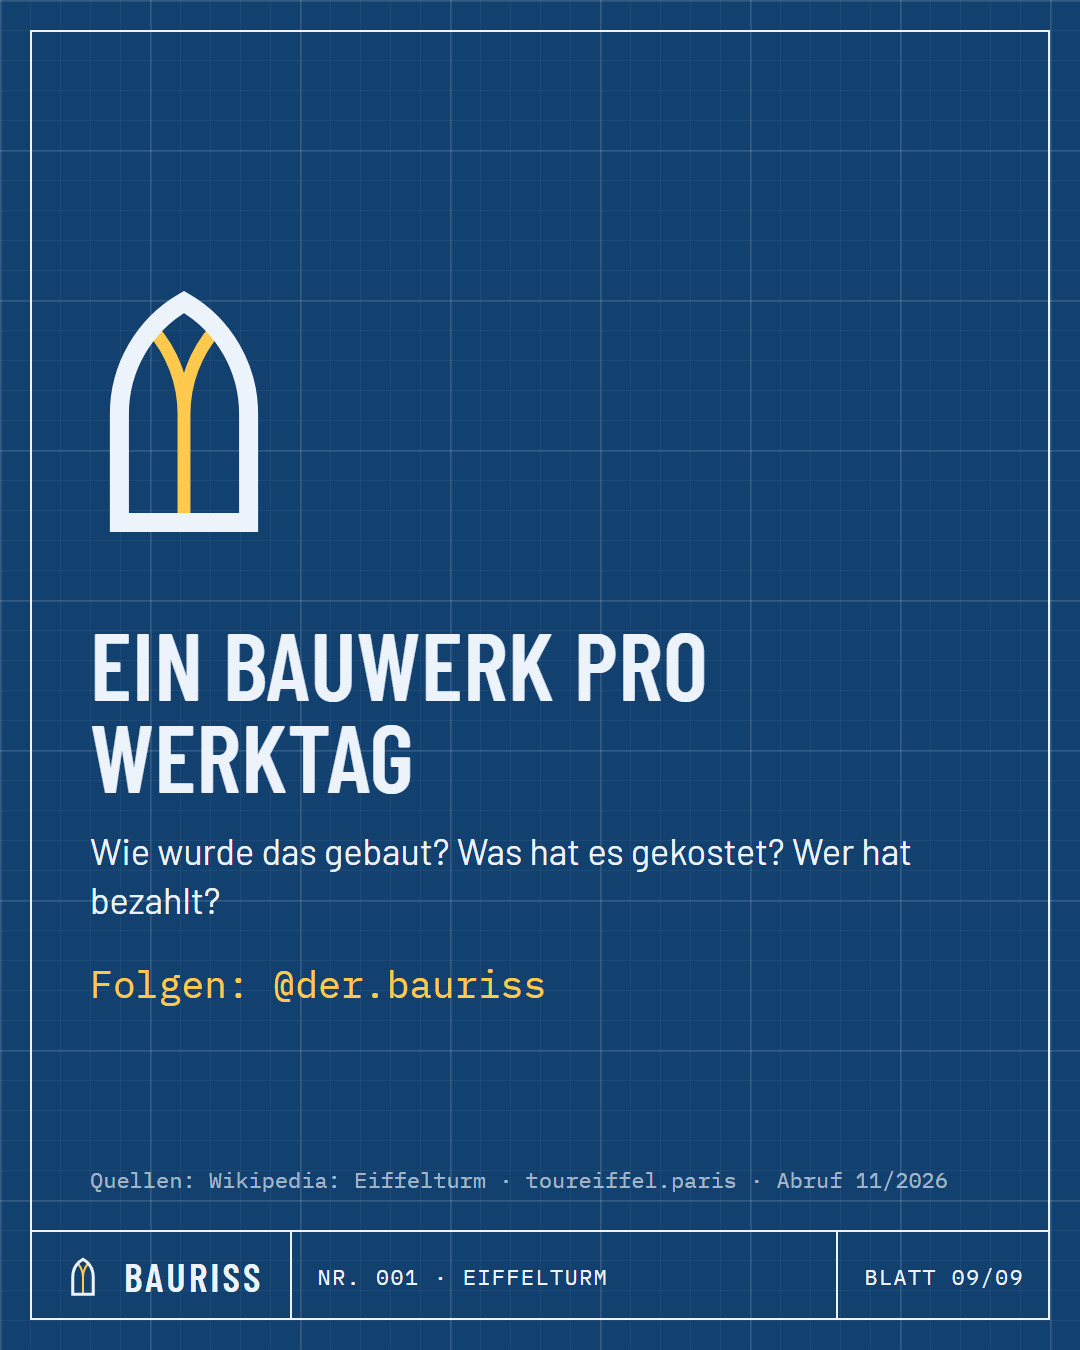
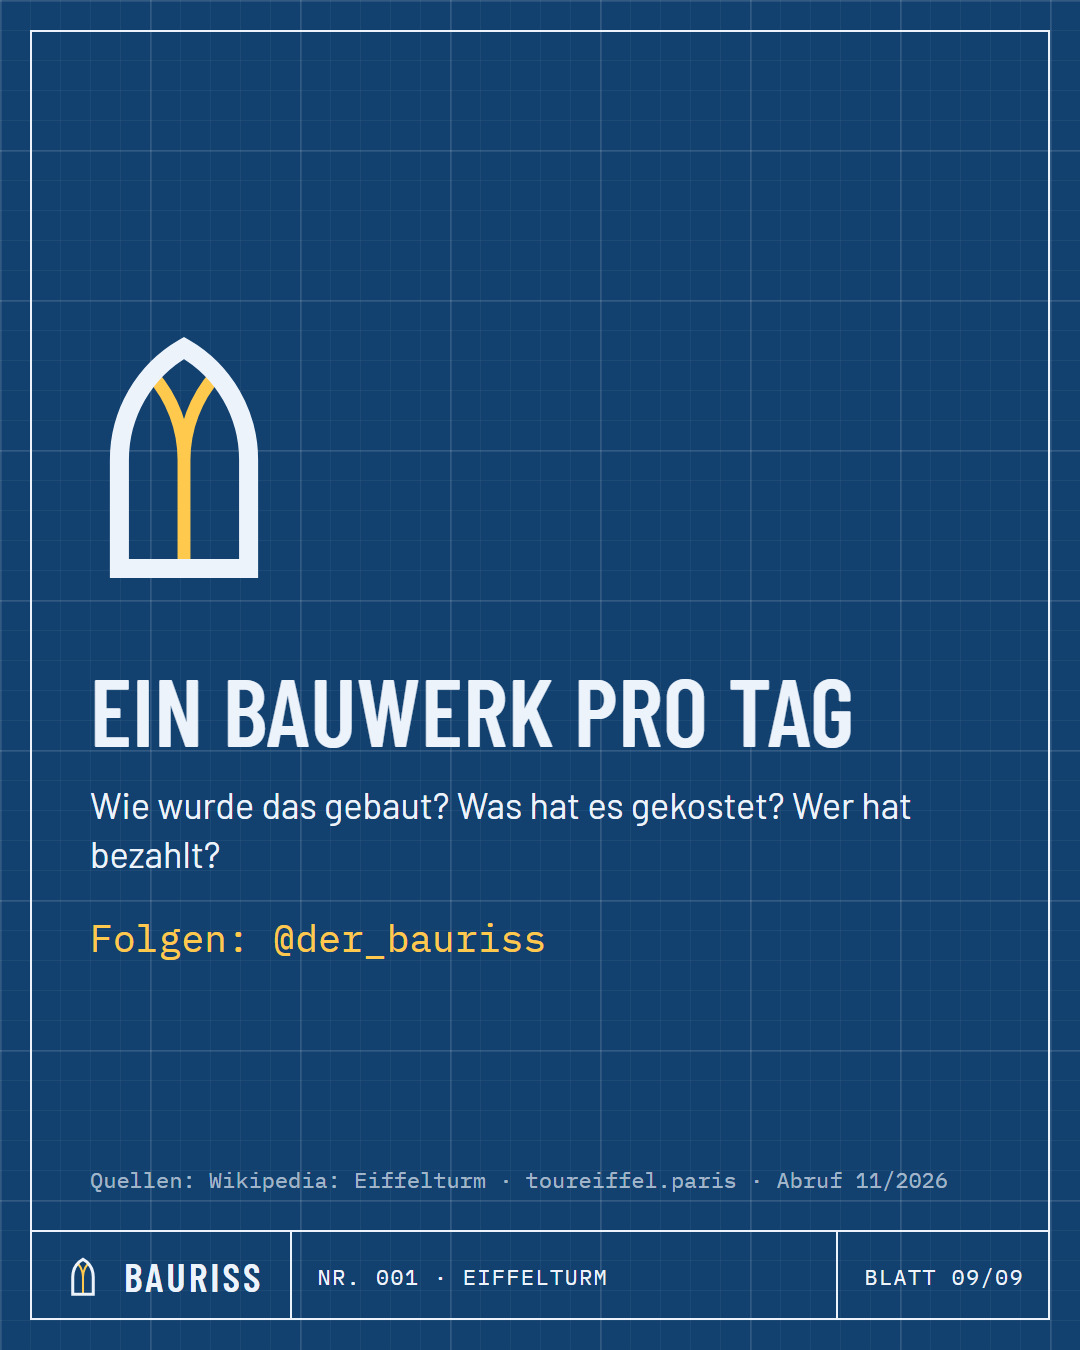
Konto heißt jetzt der_bauriss: Schlussblätter neu gerendert, 001 und 002 auf "pro Tag"

diff --git a/tools/publish.py b/tools/publish.py
@@ -270,7 +270,7 @@ def finde_konto(basis, token, config):
         # Die Liste kann leer bleiben, obwohl die App Zugriff hat. Dann das Konto direkt über seine ID ansprechen.
         direkt = frage_still(f'{basis}/{config["konto_id"]}?fields=username', token)
         if direkt.get('username'):
-            # Maßgeblich ist die ID: Das Konto hieß früher das.kassenbuch und übernimmt den Namen der.bauriss.
+            # Maßgeblich ist die ID: Das Konto hieß früher das.kassenbuch und heißt seit 16.11.2026 der_bauriss.
             konto_id = config['konto_id']
             if direkt['username'] != konto:
                 print(f'Hinweis: Das Konto heißt bei Instagram @{direkt["username"]}, in config.json steht @{konto}.')

diff --git a/tools/vorrat.py b/tools/vorrat.py
@@ -18,7 +18,7 @@ import publish  # noqa: E402
 
 ROOT = publish.ROOT
 SOLL = 7
-NAMEN = {'der.bauriss': 'Bauriss', 'das.kassenbuch': 'Kassenbuch', 'das.schaubild': 'Schaubild'}
+NAMEN = {'der_bauriss': 'Bauriss', 'der.bauriss': 'Bauriss', 'das.kassenbuch': 'Kassenbuch', 'das.schaubild': 'Schaubild'}
 
 
 def main():

diff --git a/KONTO.md b/KONTO.md
@@ -8,7 +8,7 @@ Das ist der Teil, den nur du machen kannst. Abschnitt 1 dauert etwa 15 Minuten u
 
 | Feld | Wert |
 |---|---|
-| Benutzername | `der.bauriss` |
+| Benutzername | `der_bauriss` |
 | Ausweichnamen, falls vergeben | `bauriss.de`, `bauriss.blatt` |
 | Name | `Bauriss · Bauwerke erklärt` |
 | Kategorie | Bildung |
@@ -47,8 +47,8 @@ Meta bietet bei neuen Apps nur noch die „API-Einrichtung mit Unified Login" an
 2. **Business-Portfolio:** Die Seite verlangt zuerst ein Business-Portfolio. Im Feld „Business-Portfolio" ein vorhandenes wählen oder ein neues anlegen (Name `Bauriss`). Falls sich dort keines anlegen lässt: https://business.facebook.com öffnen, Portfolio erstellen, zurück zur App und es auswählen.
 3. **Konfiguration:** Unter „Configure your app" auf „Neue Konfiguration erstellen". In der Vorschau prüfen, dass die Berechtigung `instagram_content_publish` dabei ist. Wenn nach der Gültigkeit des Tokens gefragt wird: „läuft nie ab". Dann „Use this configuration".
 4. **Redirect URL:** `https://github.com/sdadsadswwwww/kassenbuch` eintragen und speichern. Das Feld ist Pflicht, die Adresse wird für uns nie aufgerufen.
-5. **Tester einladen:** Unter „Zugriffsschlüssel generieren" auf „Konto hinzufügen" und `der.bauriss` als Instagram-Tester einladen.
-6. **Einladung annehmen:** Auf instagram.com (im Browser, nicht in der App) als `der.bauriss`: Einstellungen → Website-Berechtigungen → Apps und Websites → Tester-Einladungen → annehmen.
+5. **Tester einladen:** Unter „Zugriffsschlüssel generieren" auf „Konto hinzufügen" und `der_bauriss` als Instagram-Tester einladen.
+6. **Einladung annehmen:** Auf instagram.com (im Browser, nicht in der App) als `der_bauriss`: Einstellungen → Website-Berechtigungen → Apps und Websites → Tester-Einladungen → annehmen.
 7. **Token erzeugen:** Zurück im App-Dashboard neben dem Konto auf „Token generieren", Anmeldung abschließen, Token kopieren. Es wird nur einmal angezeigt.
 8. **Bei GitHub eintragen:** https://github.com/sdadsadswwwww/kassenbuch/settings/secrets/actions/new öffnen. Name: `IG_ACCESS_TOKEN`, Wert: das Token. „Add secret".
 
@@ -60,7 +60,7 @@ Ein zweites Token für die automatische Verlängerung (`GH_PAT`) ist vorerst nic
 
 | Schritt | Wer |
 |---|---|
-| Prüfen, dass das Token das Konto `der.bauriss` freigibt | ich |
+| Prüfen, dass das Token das Konto `der_bauriss` freigibt | ich |
 | Ersten Wochenbatch freigeben | du |
 
 ## Hinweise

diff --git a/AUTOMATIK.md b/AUTOMATIK.md
@@ -4,7 +4,7 @@ Diese Datei ist die Arbeitsanweisung für den Lauf, der den Vorrat an Posts auff
 
 ## Auftrag
 
-Der Betreiber des Kanals `@der.bauriss` hat am 14.11.2026 ein Playbook für alle seine Kanäle festgelegt (es ersetzt den Auftrag vom 13.11.2026 mit dem Enddatum 13.11.2029):
+Der Betreiber des Kanals `@der_bauriss` hat am 14.11.2026 ein Playbook für alle seine Kanäle festgelegt (es ersetzt den Auftrag vom 13.11.2026 mit dem Enddatum 13.11.2029):
 
 - **Jeden Tag** erscheint ein Bauwerk, Montag bis Sonntag, ohne Enddatum, in drei Formen: um 12:15 Uhr das **Reel** mit Musik, um 18:00 Uhr der **Post** (Carousel), fünf Minuten später die **Story** (Titelblatt mit Hinweis auf den Post).
 - **Vorrat:** Für die nächsten **7 Tage** ab morgen soll immer ein fertiger Post im Plan stehen. **Jeder Lauf prüft beim Start, ob der Vorrat bei 7 Tagen steht, und erstellt im selben Lauf alles, was fehlt** (Regel des Betreibers vom 14.11.2026; keine Obergrenze je Lauf). `tools/automatik.py stand` rechnet das aus.
